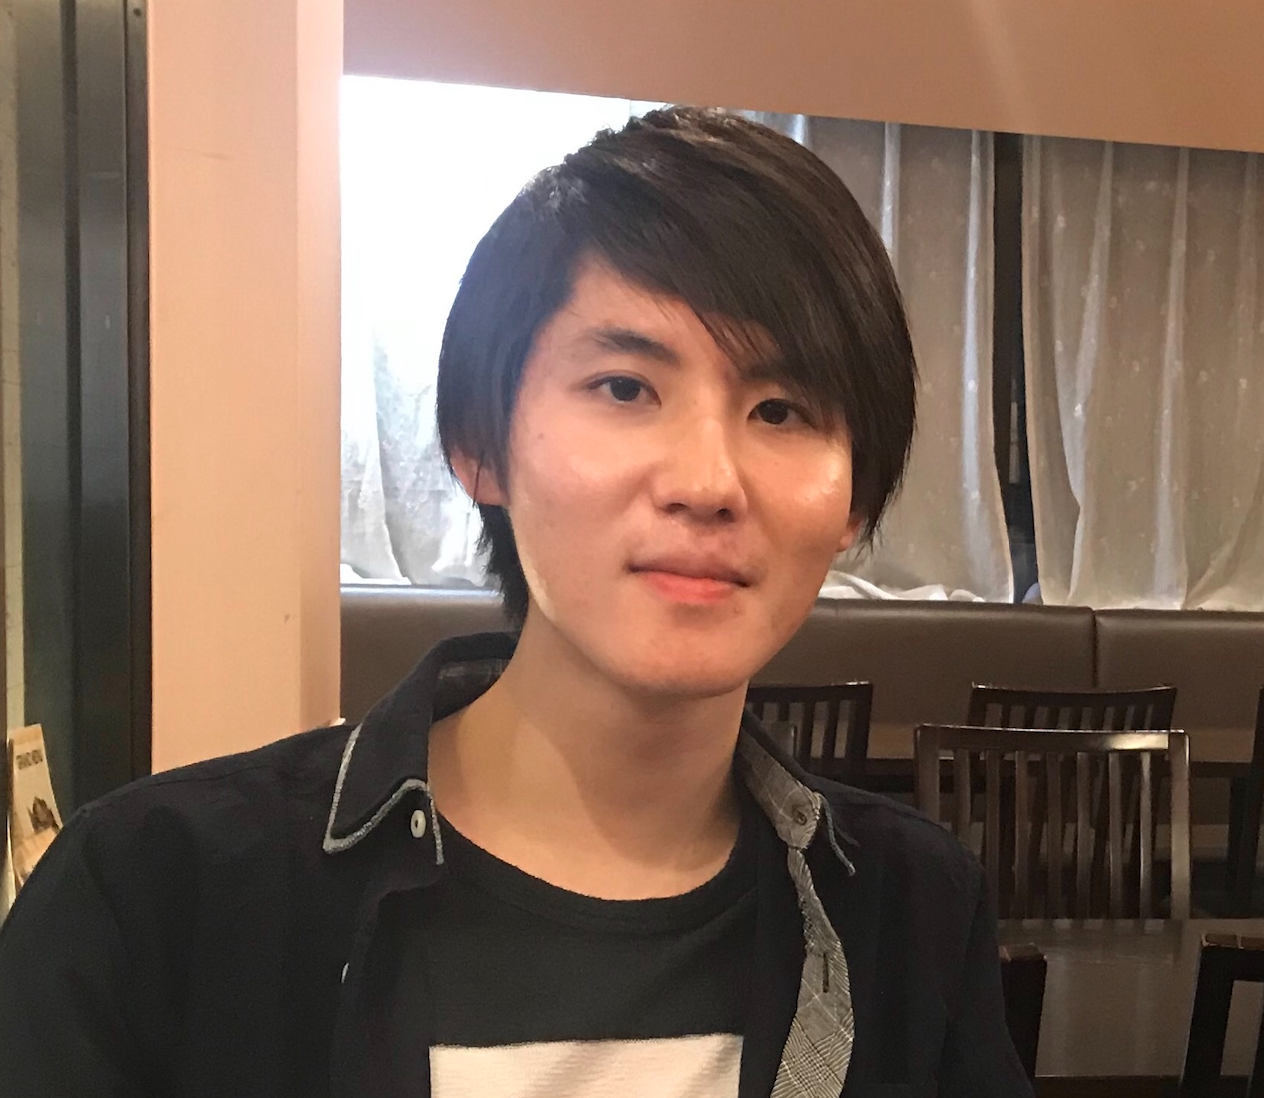
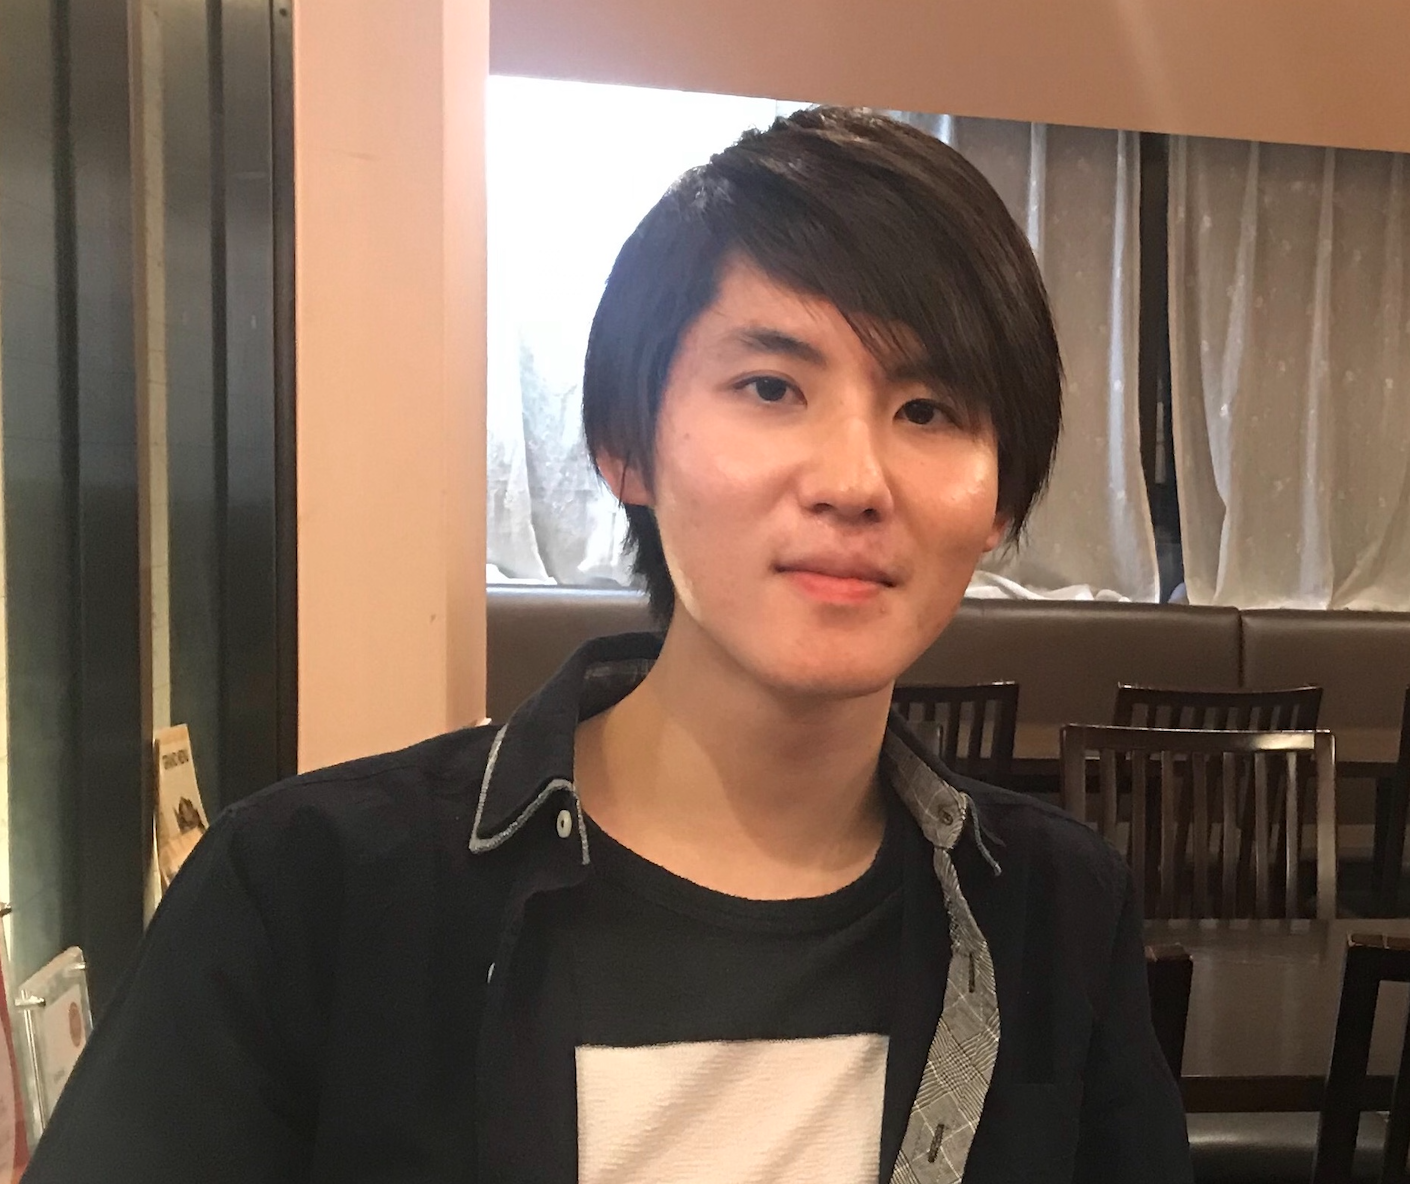
added/removed photos

diff --git a/index.html b/index.html
@@ -234,9 +234,9 @@
     <!-- Sidebar -->
     <aside class="sidebar">
       <div class="sidebar-content">
-        <div class="profile-photo"><img src="pic.png" alt="Yuiki Takahashi"></div>
+        <div class="profile-photo"><img src="yuiki.png" alt="Yuiki Takahashi"></div>
         <h3>Yuiki Takahashi</h5>
-        <h5>AMO Physics • Quantum Sensing • Precision measurements</h5>
+        <h6>AMO Physics • Quantum Sensing • Precision measurements</h6>
 
         <div class="sidebar-contact">
           <p><strong>Email:</strong> yuiki at caltech.edu</p>
